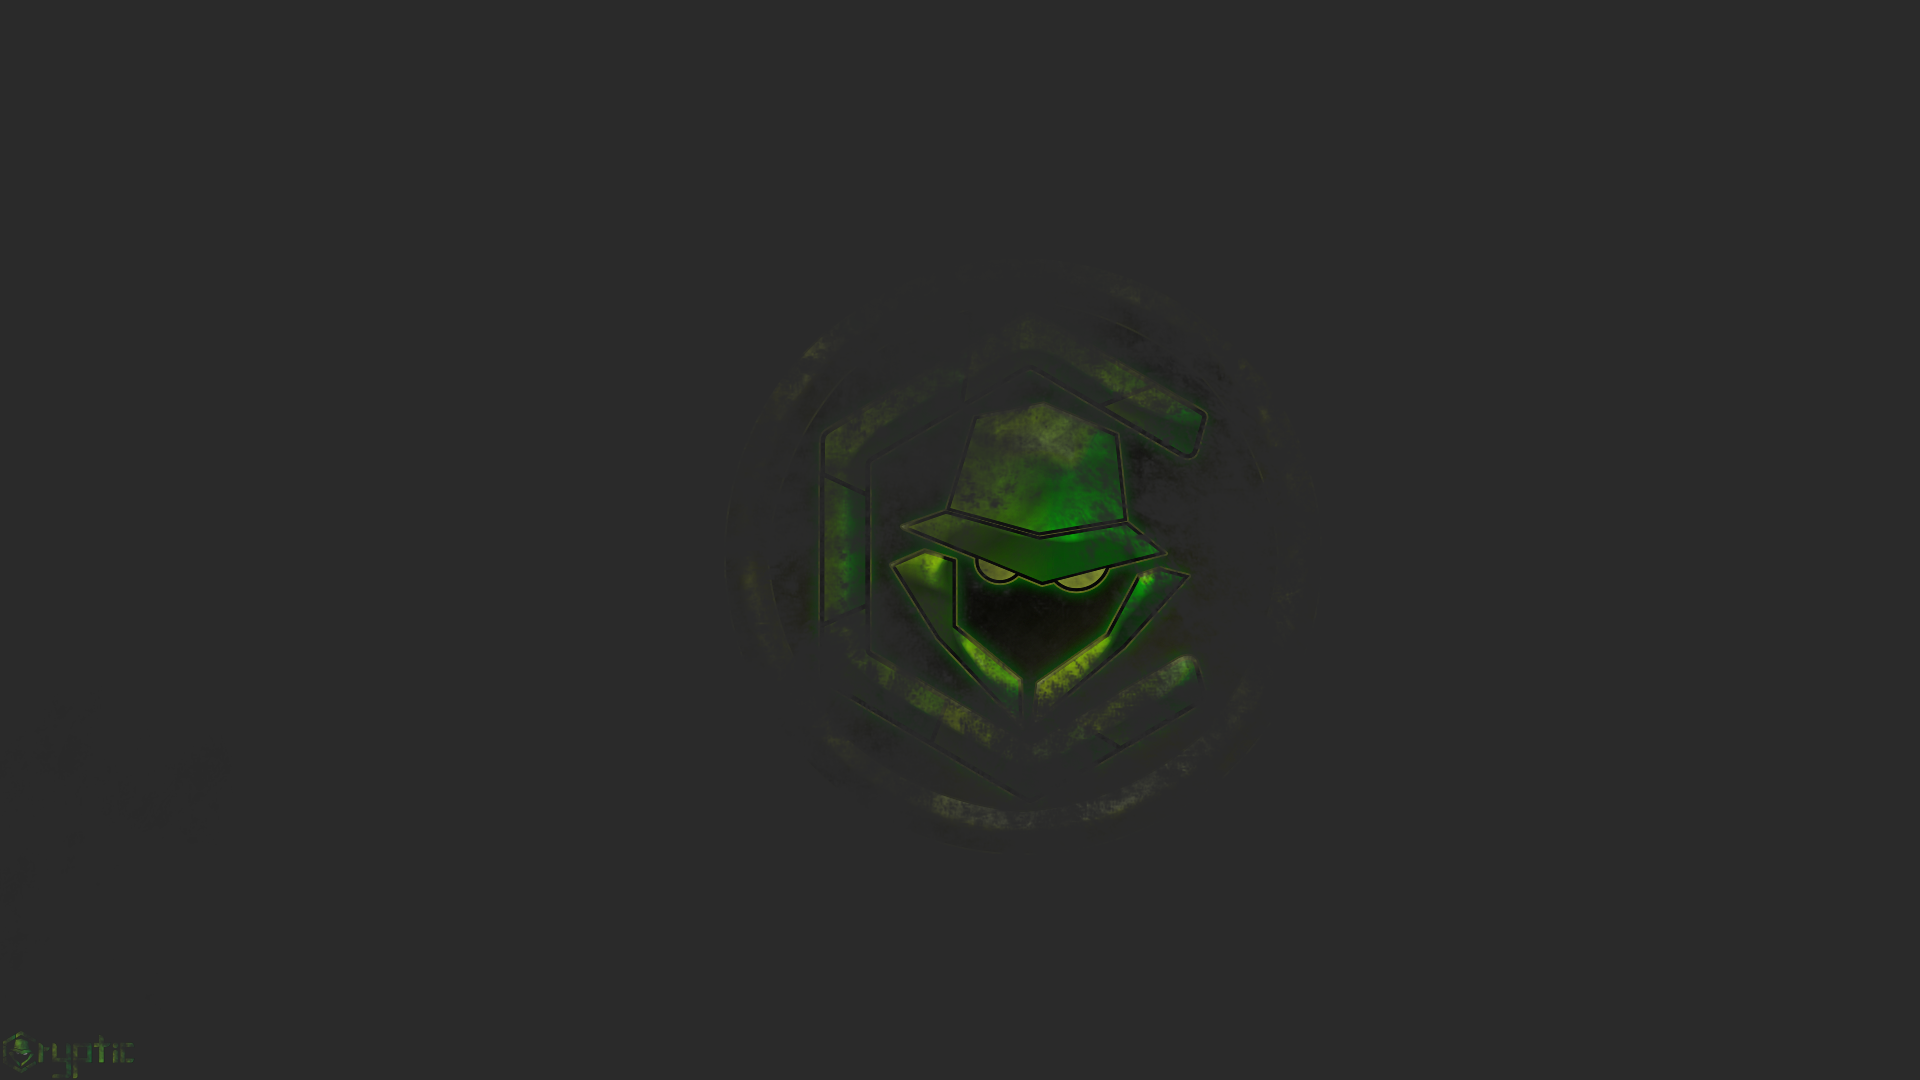
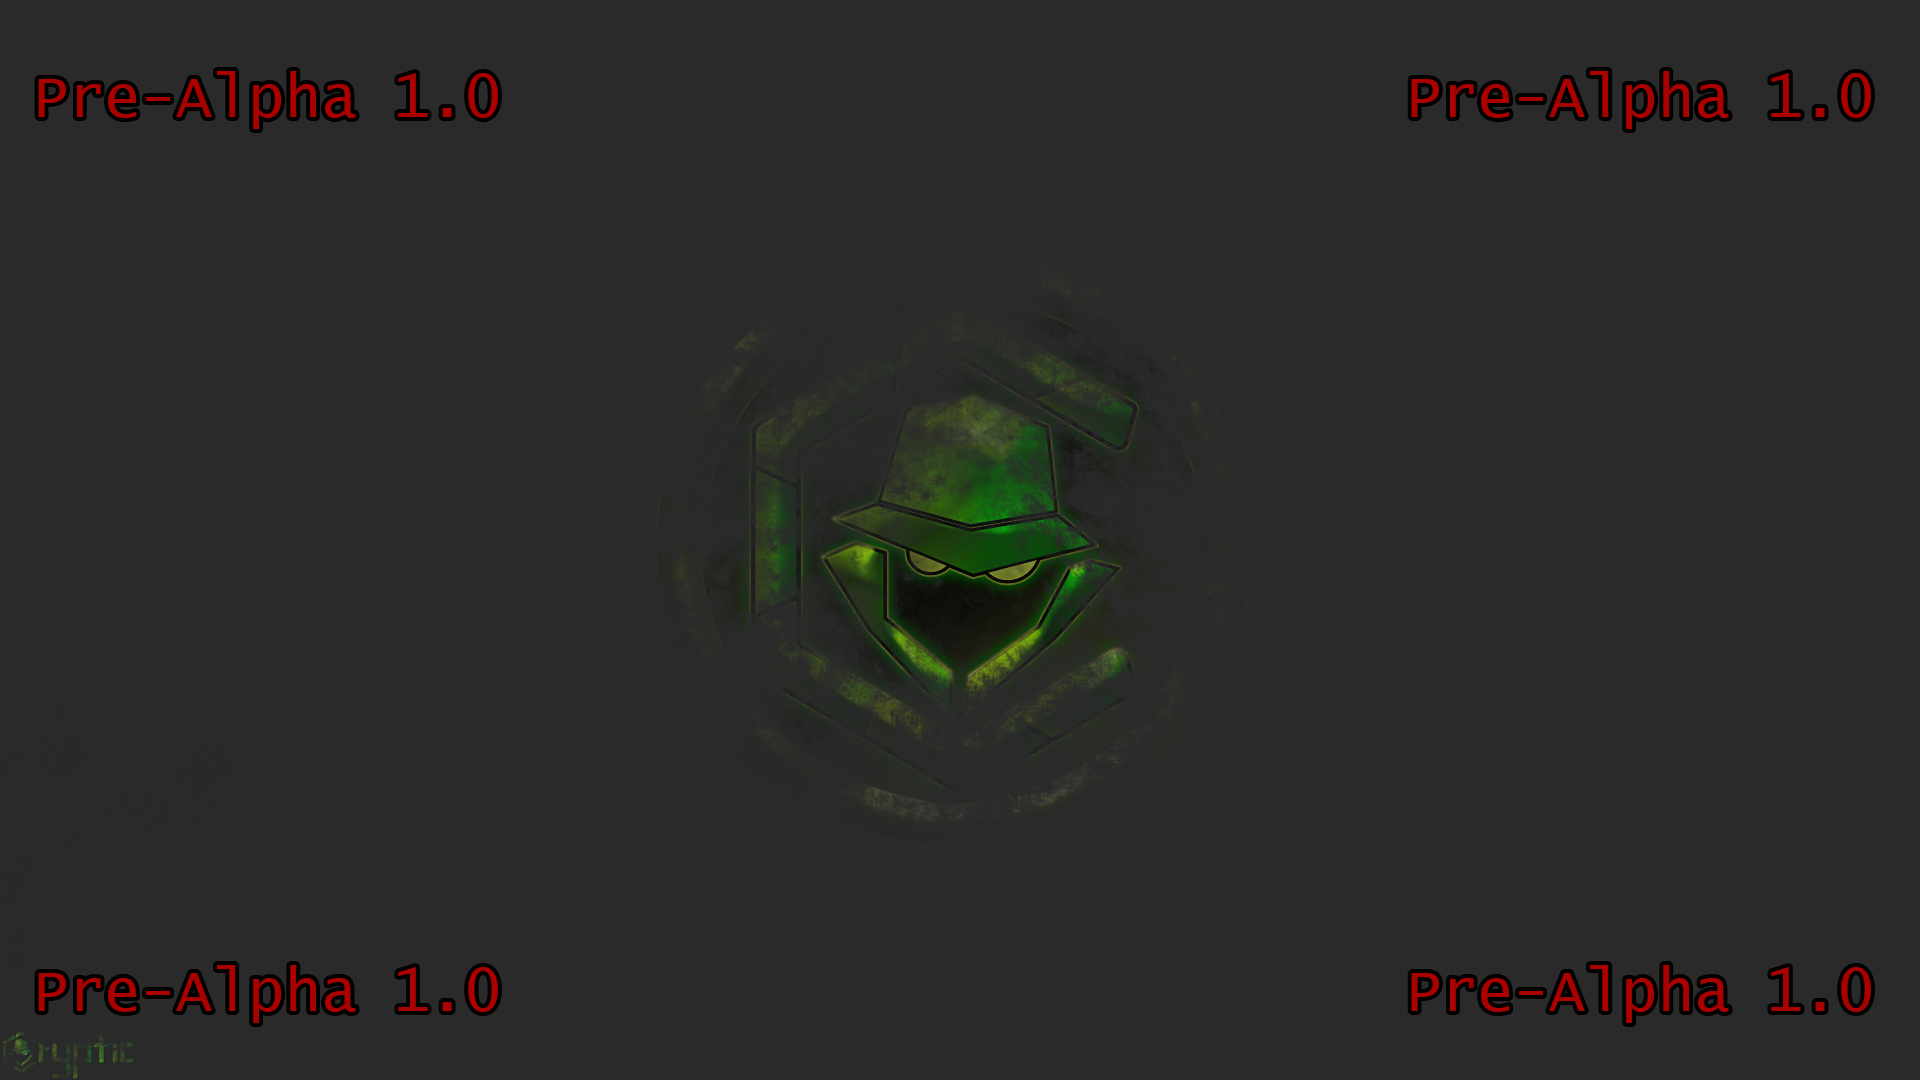
changes and fixes
added background img with "pre-alpha 1.0" txt
fix size from startmenu
changed color from startmenu and taskbar

diff --git a/src/app/desktop/desktop-startmenu/desktop-startmenu.component.scss b/src/app/desktop/desktop-startmenu/desktop-startmenu.component.scss
@@ -2,11 +2,11 @@
   width: 30%;
   height: 65%;
   position: absolute;
-  bottom: 0;
+  bottom: 5.7%;
   padding: 1.5% 1.5% 5.5%;
-  background-color: #424242;
+  background-color: #1c1c1c;
   color: #FAFAFA;
-  box-shadow: 0 0 38px rgba(0, 0, 0, 0.30), 0 0 12px rgba(0, 0, 0, 0.22);
+  box-shadow: 0 0 2px rgba(0, 0, 0, 0.70);
 
   img {
     height: auto;
@@ -36,12 +36,12 @@
 
   #programs {
     width: 100%;
-    height: calc(64.5% - 2px);
+    height: calc(85% - 2px);
 
     display: flex;
     flex-flow: column nowrap;
     justify-content: space-between;
-    padding: 1%;
+    padding: 2%;
 
     #linkages {
       height: 100%;

diff --git a/src/app/desktop/desktop.component.scss b/src/app/desktop/desktop.component.scss
@@ -7,7 +7,7 @@
   width: 100%;
   height: 94.5%;
   background: #212121 url('../../assets/desktop/img/cry_crack.png') no-repeat center;
-  background-size: cover;
+  background-size:  cover;
   box-sizing: content-box;
   position: relative;
   overflow: hidden;

diff --git a/src/app/desktop/desktop-menu/desktop-menu.component.scss b/src/app/desktop/desktop-menu/desktop-menu.component.scss
@@ -3,7 +3,7 @@
   align-items: center;
   width: 100%;
   height: 5.5%;
-  background-color: #212121;
+  background-color: #232323;
   user-select: none;
 }
 
